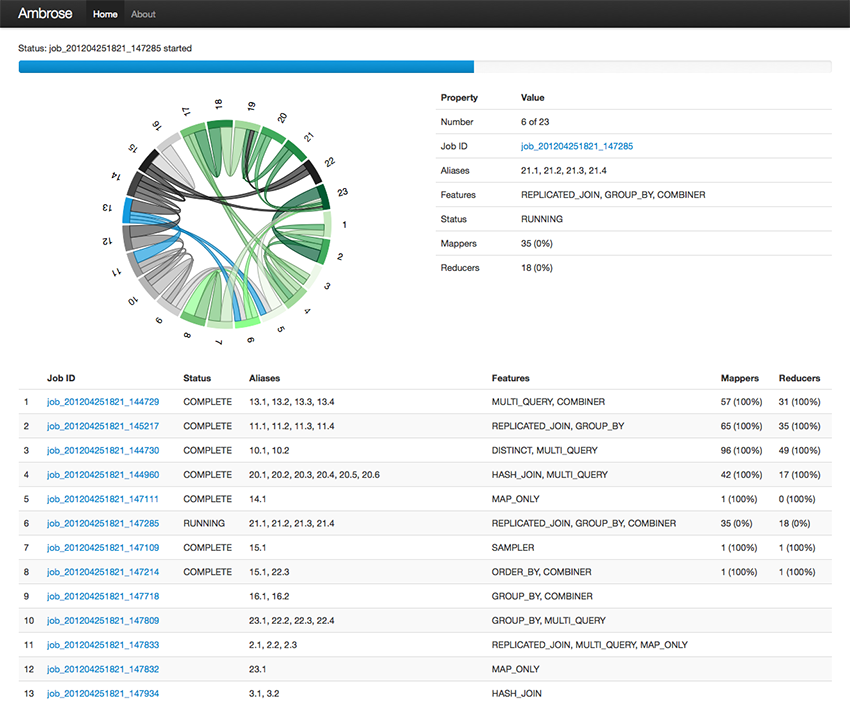
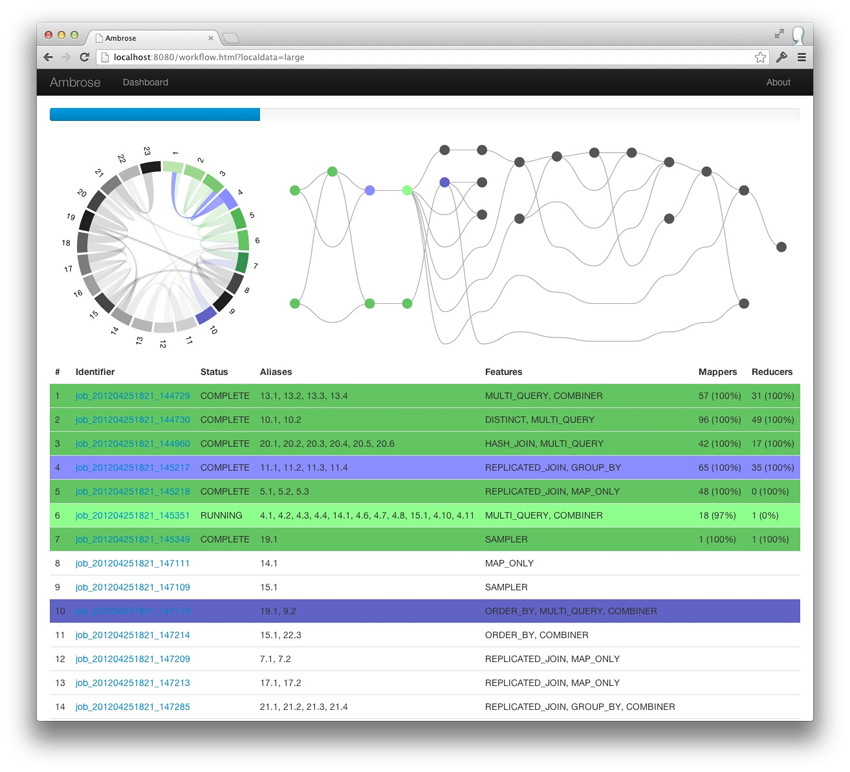
Updates root level README.md and screenshot

diff --git a/README.md b/README.md
@@ -7,18 +7,17 @@ visualization to reflect the latest job status, polled from your process.
 
 Ambrose provides the following in a web UI:
 
-* A chord diagram to visualize job dependencies and current state
 * A table view of all the associated jobs, along with their current state
-* A highlight view of the currently running jobs
+* Chord and graph diagrams to visualize job dependencies and current state
 * An overall script progress bar
 
 Ambrose is built using the following front-end technologies:
 
-* [D3.js](http://d3js.org) - For chord diagram visualization
+* [D3.js](http://d3js.org) - For diagram generation
 * [Bootstrap](http://twitter.github.com/bootstrap/) - For layout and CSS support
 
-Ambrose is designed to support any Hadoop workflow runtime, but current support is limited to
-[Apache Pig](http://pig.apache.org/).
+Ambrose is designed to support any workflow runtime, but current support is limited to [Apache
+Pig](http://pig.apache.org/).
 
 Follow [@Ambrose](https://twitter.com/ambrose) on Twitter to stay in touch!
 
@@ -32,21 +31,17 @@ Follow [@Ambrose](https://twitter.com/ambrose) on Twitter to stay in touch!
 
 ## Examples
 
-Below is a screenshot of the Ambrose UI. Each arc segment on the circle represents a map-reduce job.
-Dependencies between jobs are represented by chords which connect job arc segments.
-Grey jobs have not yet run, bright green jobs are running and light green jobs are completed.
-When the mouse hovers over a job, its arc and input dependencies are highlighted blue. Clicking on
-the job will select it, updating the contents of the table to the right of the diagram with
-information about the selected job.
+Below is a screenshot of the Ambrose UI. The interface presents multiple responsive "views" of a
+single workflow. Just beneath the toolbar at the top of the screen is a workflow progress bar that
+tracks overall completion percentage of the workflow. Below the progress bar are two diagrams which
+depict the workflow's jobs and their dependencies. Below the diagrams is a table of workflow
+jobs.
 
-Note that Each job arc is bisected; Chords on one half of the arc connect to predecessor jobs while
-chords on the other half connect to successor jobs. For example, in the diagram below jobs 1 and 3
-have no predecessors while jobs 16, 20, 21, and 22 have no successors (their outputs represent the
-final result of this workflow).
-
-Note that the chord diagram shown is our first pass at visualizing the workflow, and there's room
-for improvement. We'd like to support other visualizations as well, like a graph of the workflow DAG.
-If you develop an improved visualization, be sure to send us a pull request!
+All views react to mouseover and click events on a job, regardless of the view on which the event is
+triggered; Moving your mouse over the first row of the table will highlight that job row along with
+the associated job arc in the chord diagram and job node in the graph diagram. Clicking on a job in
+any view will select it, updating the highlighting of that job in all views. Clicking twice on the
+same job will deselect it.
 
 ![Ambrose UI screenshot](https://github.com/twitter/ambrose/raw/master/docs/img/ambrose-ss1.png)
 
@@ -59,37 +54,34 @@ git clone https://github.com/twitter/ambrose.git
 cd ambrose
 ```
 
-Next, you can try running the Ambrose demo on your local machine. The demo
-starts a local web server which serves the front-end client resources and sample
-data. Start the demo with the following command and then browse to
-[http://localhost:8080/workflow.html?localdata=small](http://localhost:8080/workflow.html?localdata=small):
+Next, you can try running the Ambrose demo on your local machine. The demo starts a local web server
+which serves the front-end client resources and sample data. Start the demo with the following
+command and then browse to
+[http://localhost:8080/workflow.html?localdata=large](http://localhost:8080/workflow.html?localdata=large):
 
 ```
 ./bin/ambrose-demo
 ```
 
-To run Ambrose with an actual Pig script, you'll need to build the Ambrose Pig
-distribution and untar it:
+To run Ambrose with an actual Pig script, you'll need to build the Ambrose Pig distribution:
 
 ```
 mvn package
-tar zxvf pig/target/ambrose-pig-$VERSION-bin.tar.gz
 ```
 
 You can then run the following commands to execute `path/to/my/script.pig` with an Ambrose app server
 embedded within the Pig client:
 
 ```
-cd ambrose-pig-$VERSION
+cd pig/target/ambrose-pig-$VERSION-bin/ambrose-pig-$VERSION
 ./bin/pig-ambrose -f path/to/my/script.pig
 ```
 
-Note that this command delegates to the `pig` script present in your local
-installation of Pig, so make sure `$PIG_HOME/bin` is in your path. Now, browse
-to
-[http://localhost:8080/web/workflow.html](http://localhost:8080/web/workflow.html)
-to see the progress of your script using the Ambrose UI. To override the default
-port, export `AMBROSE_PORT` before invoking `pig-ambrose`:
+Note that this command delegates to the `pig` script present in your local installation of Pig, so
+make sure `$PIG_HOME/bin` is in your path. Now, browse to
+[http://localhost:8080/web/workflow.html](http://localhost:8080/web/workflow.html) to see the
+progress of your script using the Ambrose UI. To override the default port, export `AMBROSE_PORT`
+before invoking `pig-ambrose`:
 
 ```
 export AMBROSE_PORT=4567
@@ -97,7 +89,7 @@ export AMBROSE_PORT=4567
 
 ## Maven repository
 
-An initial release will be pushed to Maven shortly.
+An initial Ambrose release will be pushed to Maven Central once Pig 0.11 has been released.
 
 ## How to contribute
 
@@ -108,7 +100,7 @@ as well.
 Here are some high-level goals we'd love to see contributions for:
 
 * Improve the front-end client
-* Add other visualization options, like a DAG view
+* Add other visualization options
 * Create a new back-end for a different runtime environment
 * Create a standalone Ambrose server that's not embedded in the workflow client
 
